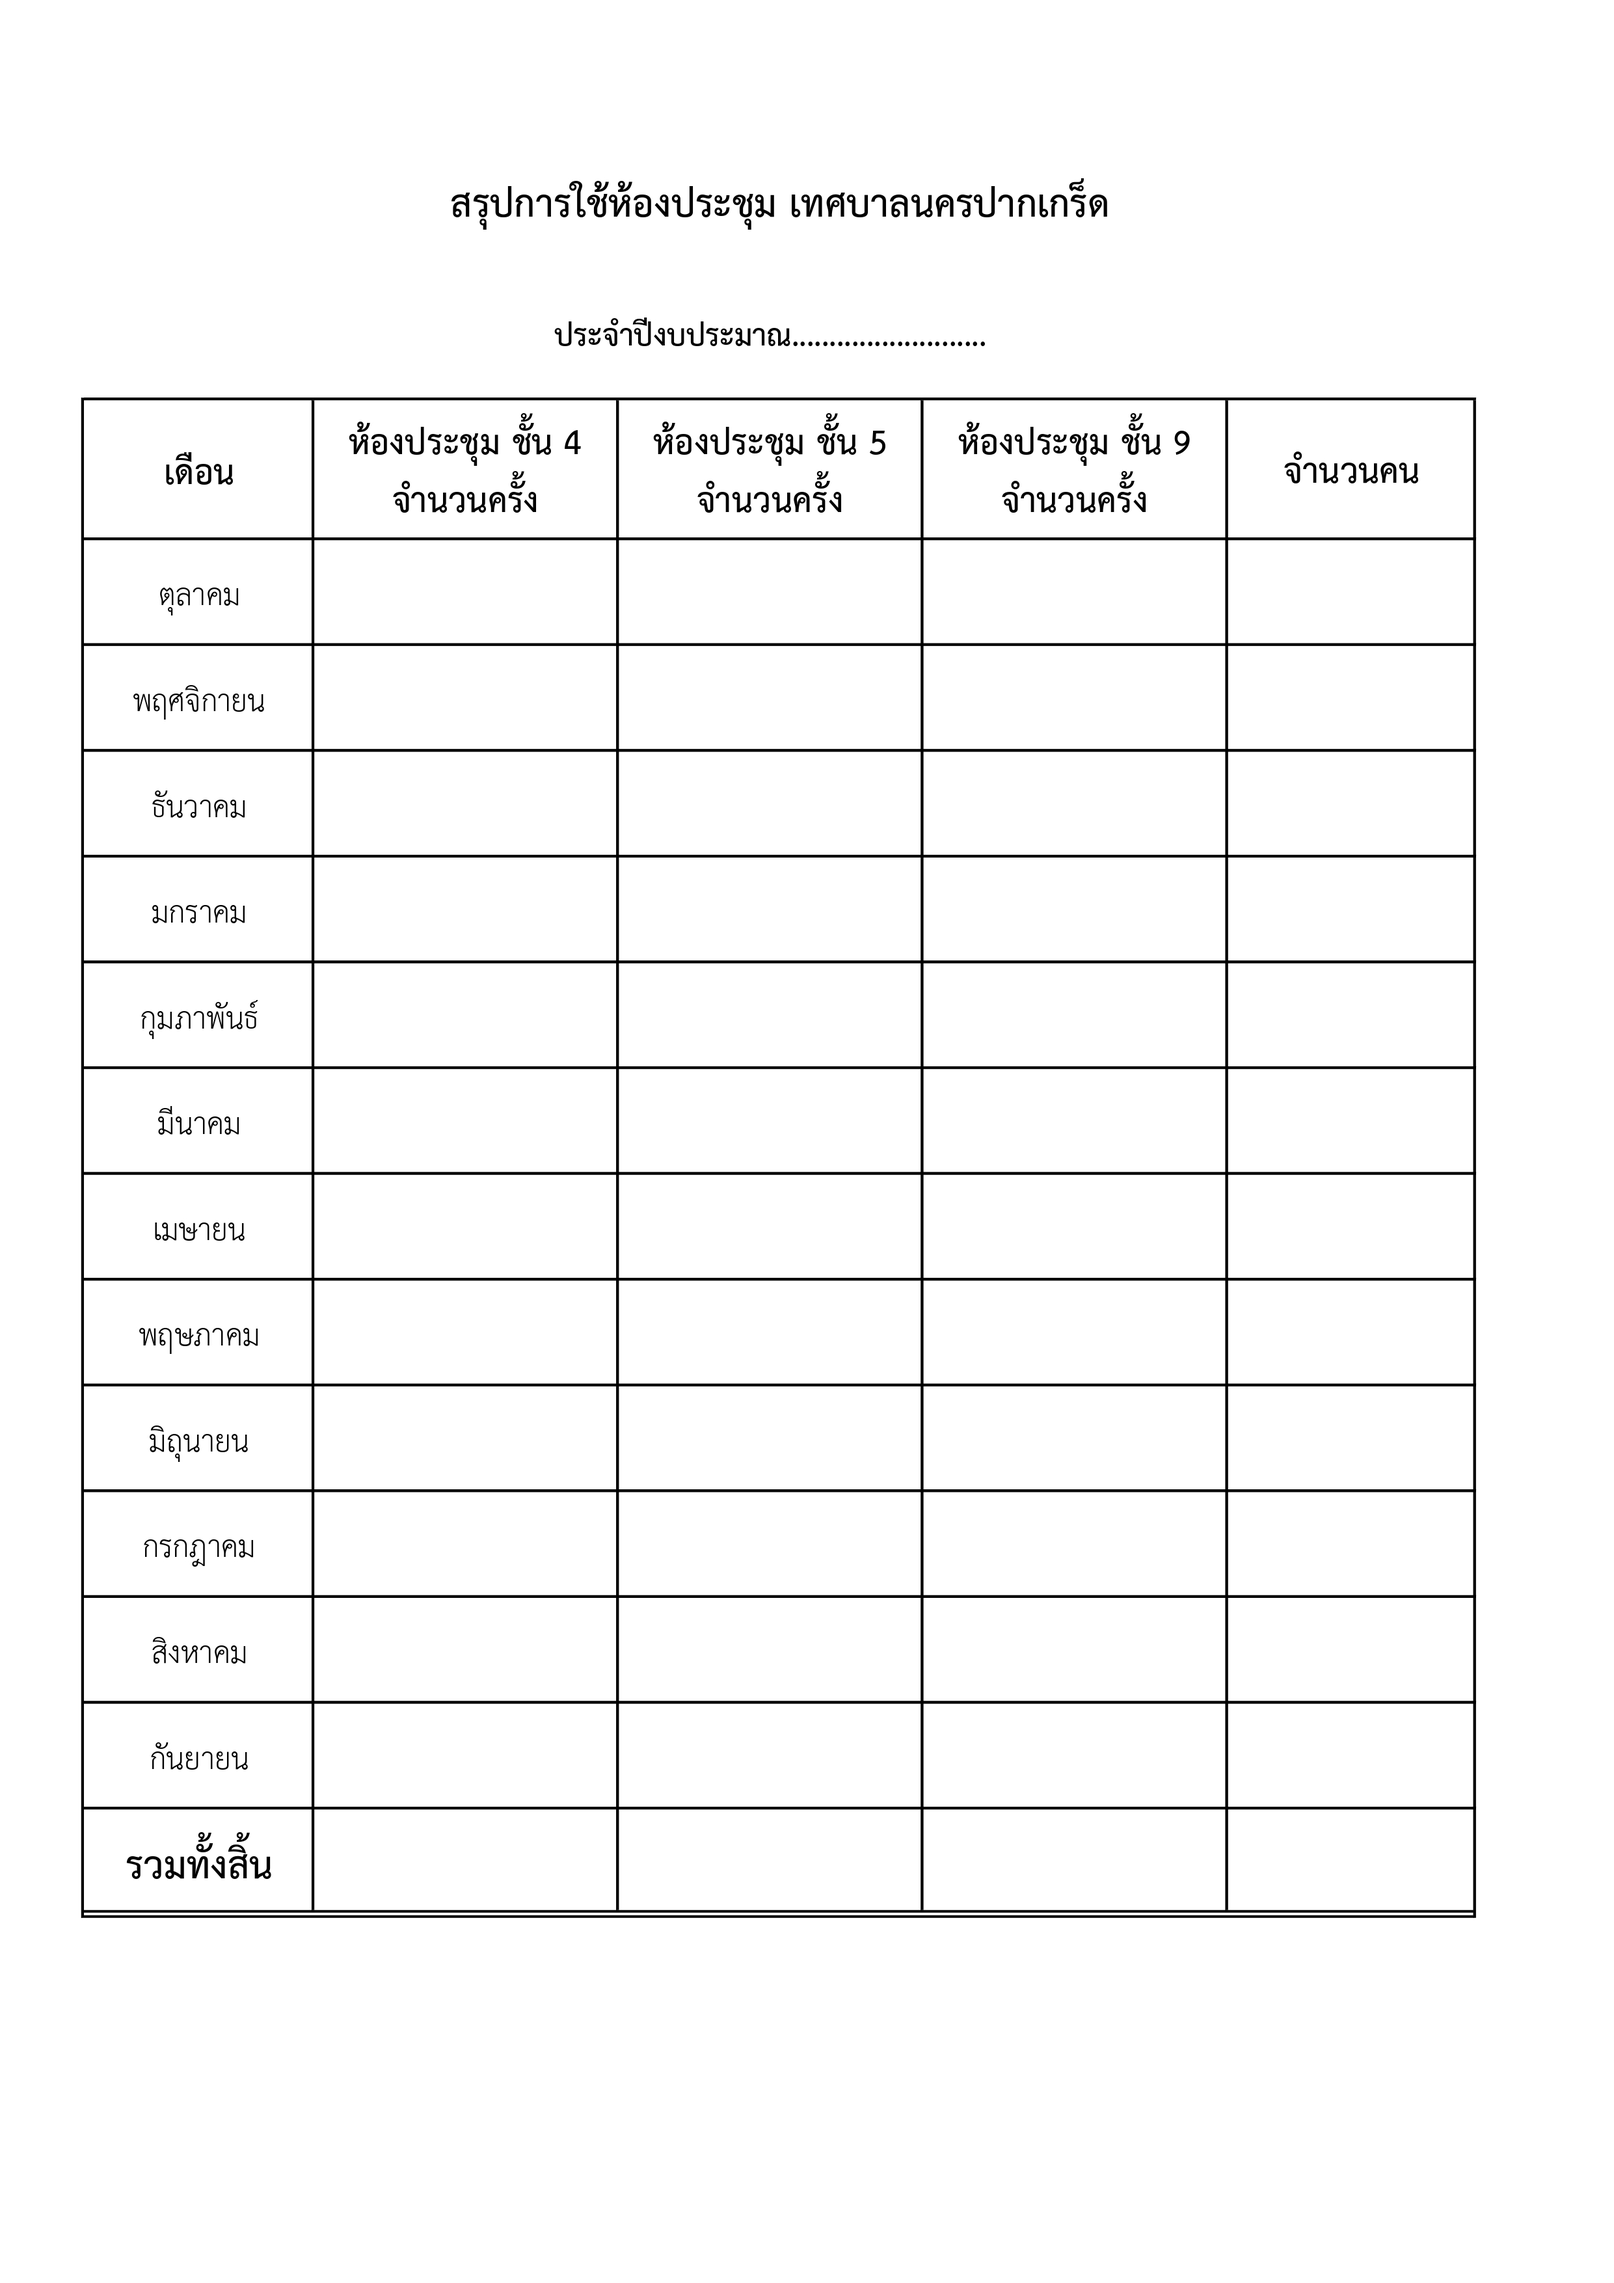
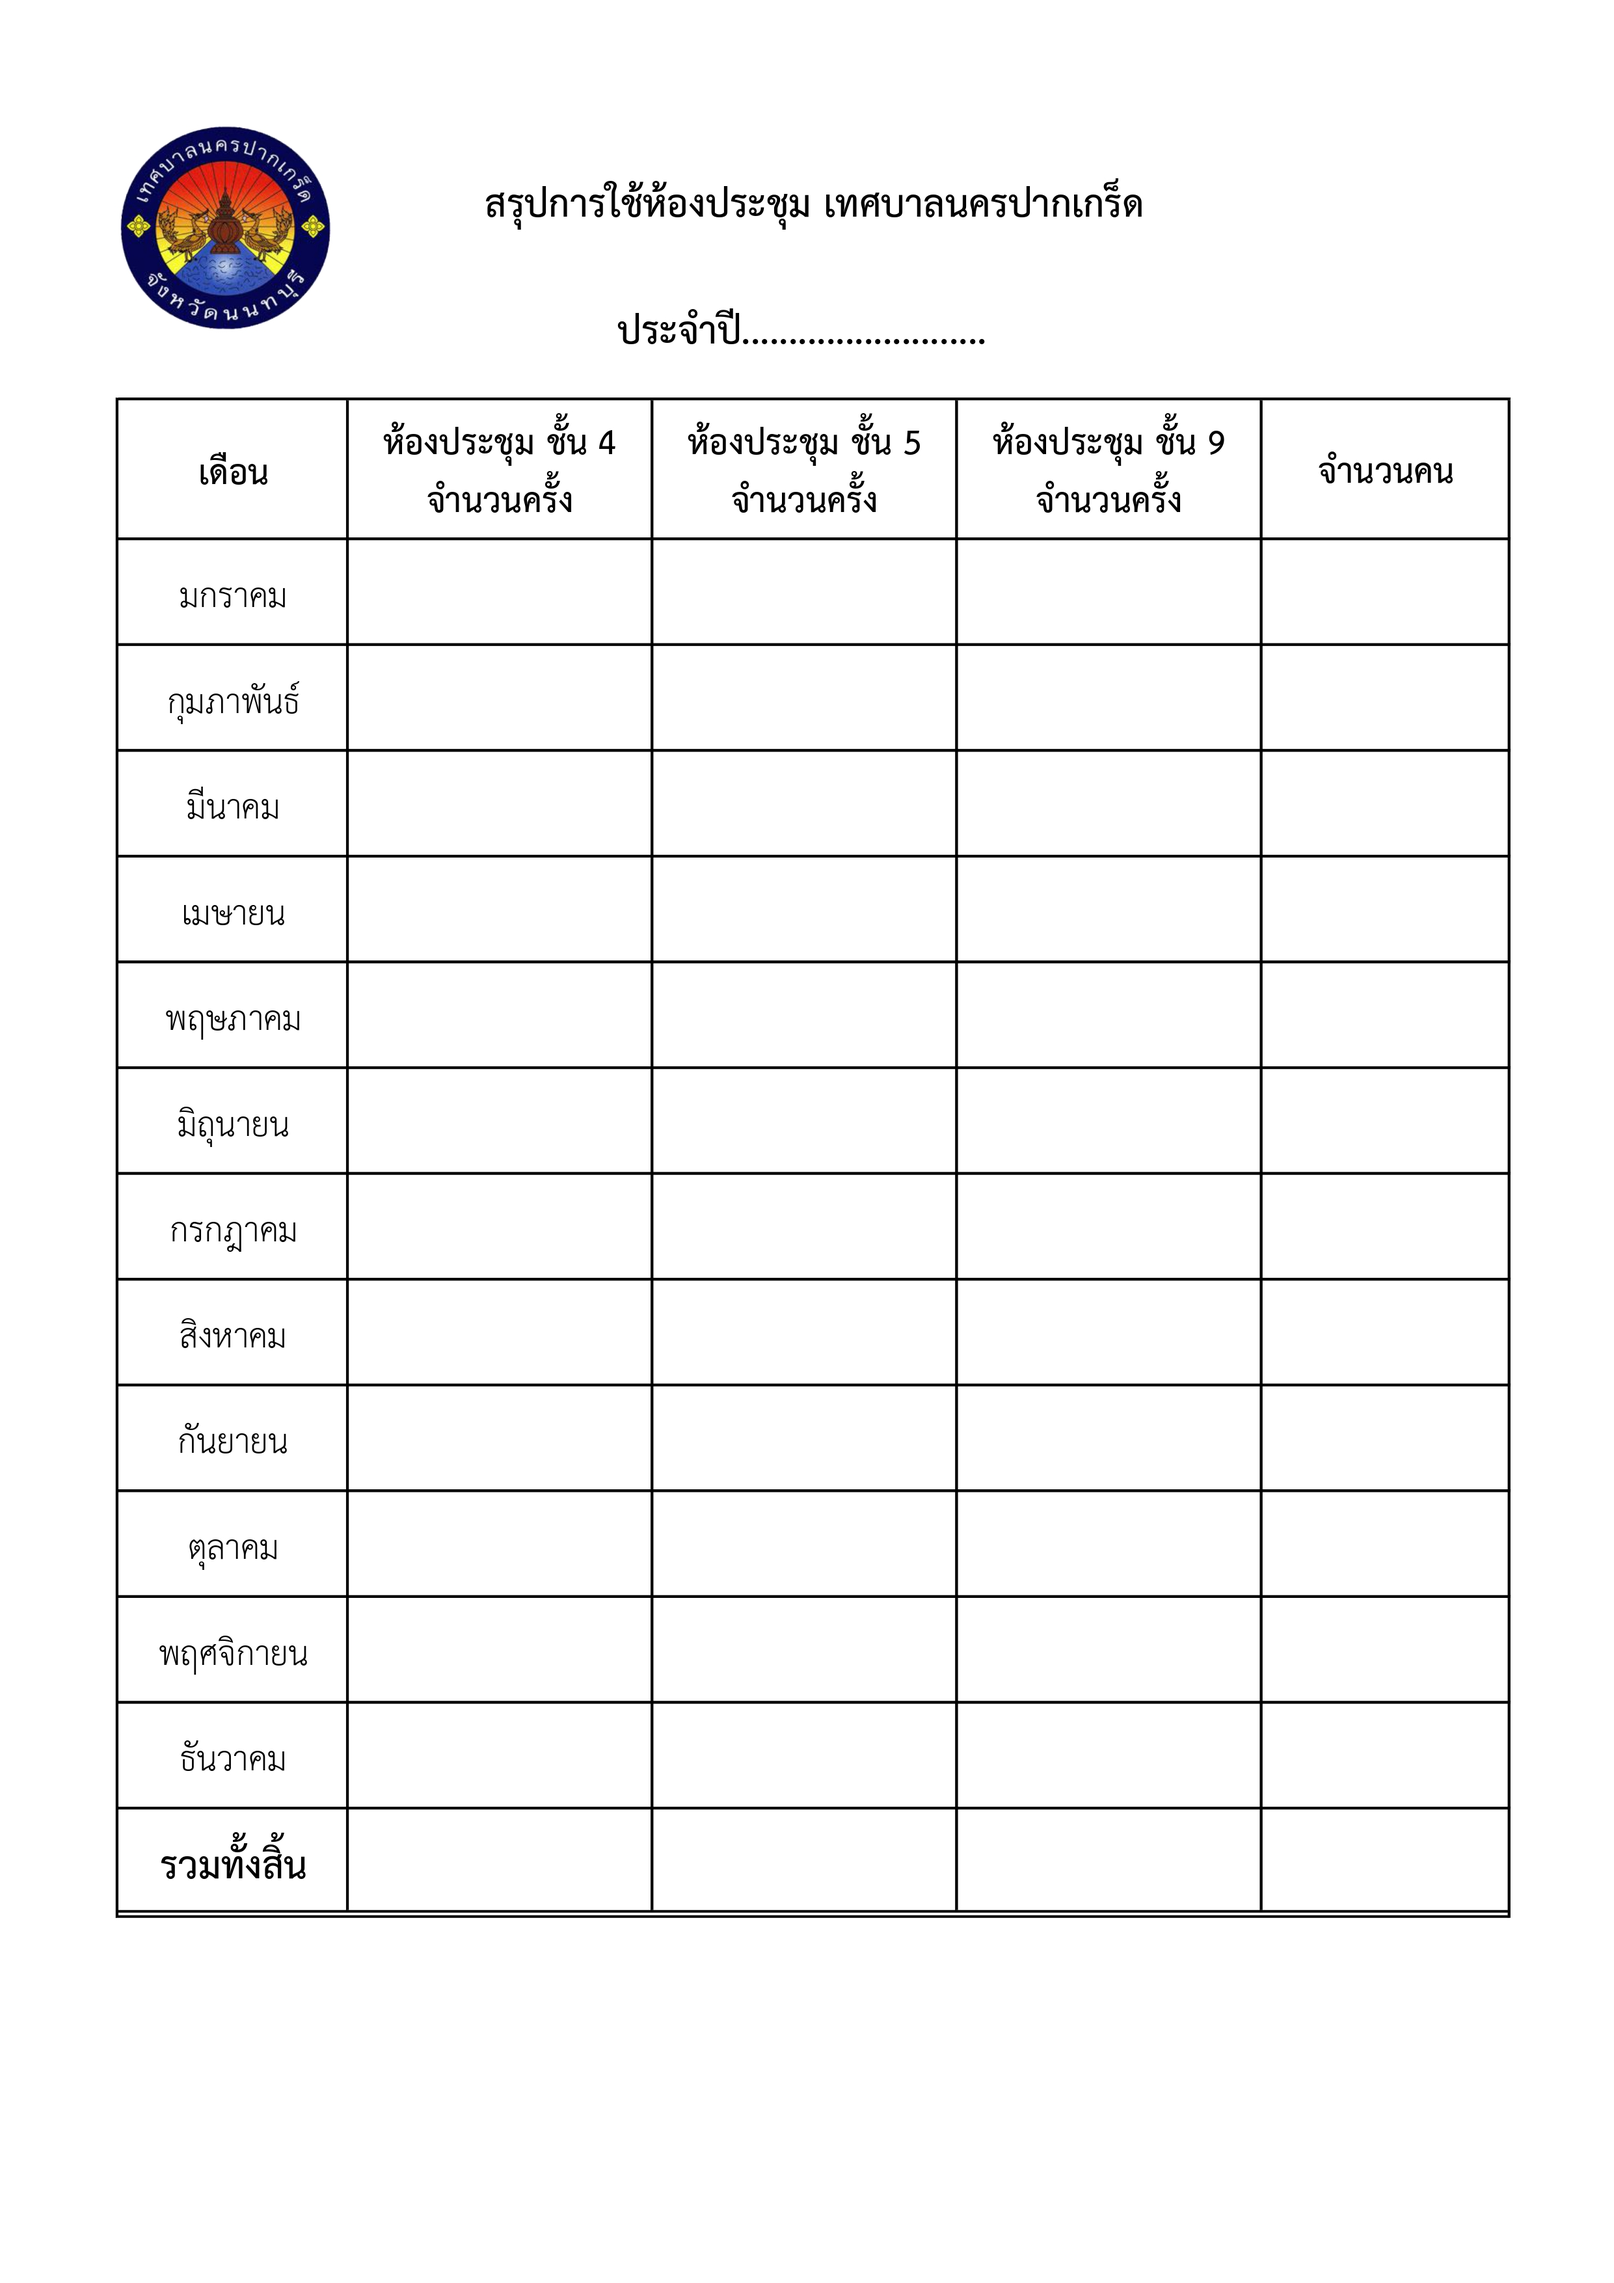
add boldtext and fix approve

diff --git a/txt-to-img2.php b/txt-to-img2.php
@@ -25,6 +25,15 @@ function AddText($x, $y, $text){
     imagettftext($img, $FontSize, 0, $x, $y, $black, $font, $text);
 }
 
+function AddBoldText($x, $y, $text){
+    global $img, $black, $font, $FontSize;
+    
+    // Render the text multiple times with small offsets to simulate boldness
+    for ($offset = -1; $offset <= 1; $offset++) {
+        imagettftext($img, $FontSize, 0, $x + $offset, $y + $offset, $black, $font, $text);
+    }
+}
+
 // Get the first and last day of each month in the current year
 function getFirstAndLastDaysOfEachMonth() {
     $currentYear = date('Y');
@@ -61,9 +70,6 @@ $last_Y = 760;
 // $last_X = 650;
 
 $data2 = [
-    $data['October'],
-    $data['November'],
-    $data['December'],
     $data['January'],
     $data['February'],
     $data['March'],
@@ -73,6 +79,9 @@ $data2 = [
     $data['July'],
     $data['August'],
     $data['September'],
+    $data['October'],
+    $data['November'],
+    $data['December'],
 ];
 
 $x_step = 480;
@@ -90,11 +99,11 @@ foreach ($data2 as $monthName => $monthData) {
     $curX = 600;
 
 
-    $x_step4 = 700;
+    $x_step4 = 740;
 
-    $x_step5 = 1180;
+    $x_step5 = 1220;
 
-    $x_step9 = 1650;
+    $x_step9 = 1670;
 
     foreach ($monthData as $key => $value) {
         
@@ -130,15 +139,15 @@ foreach ($data2 as $monthName => $monthData) {
     }
 
     $sumAll += $sum;
-    AddText(2050, $last_Y, $sum);
+    AddText(2090, $last_Y, $sum);
     
 }
 
-AddText(1300, 515,(date('Y')+543));
-AddText(2050, 2880, $sumAll);
-AddText(700, 2880, $sumRoom4);
-AddText(1180, 2880, $sumRoom5);
-AddText(1650, 2880, $sumRoom9);
+AddText(1250, 515,(date('Y')+543));
+AddBoldText(2090, 2880, $sumAll);
+AddBoldText(740, 2880, $sumRoom4);
+AddBoldText(1220, 2880, $sumRoom5);
+AddBoldText(1690, 2880, $sumRoom9);
 
 // Save the modified image as booking_sum_page1.jpg
 $result = imagejpeg($img, __DIR__ . '/assets/img/booking_sum_page1.jpg', 100);

diff --git a/process_reservation.php b/process_reservation.php
@@ -231,12 +231,11 @@ function InsertEquipment($tableName = '', $equipment=[]){
 $sql_check = "SELECT * FROM reservations 
               WHERE meeting_room = '$meeting_room' 
               AND (
-                  (reservation_date <= '$reservation_date_end' AND reservation_date_end >= '$reservation_date') 
-                  AND ((start_time <= '$end_time' AND end_time >= '$start_time'))
-              ) AND is_approve = 1";
+                  (reservation_date <= '$reservation_date_end' AND reservation_date_end >= '$reservation_date')
+                  AND ((start_time <= '$end_time' AND end_time >= '$start_time')))";
 
 $result = $conn->query($sql_check);
-//echo "row".$result->num_rows;
+// echo "row".$result->num_rows;
 if ($result->num_rows > 0) {
     echo "<script src='https://cdn.jsdelivr.net/npm/sweetalert2@11'></script>";
         echo "<script>
